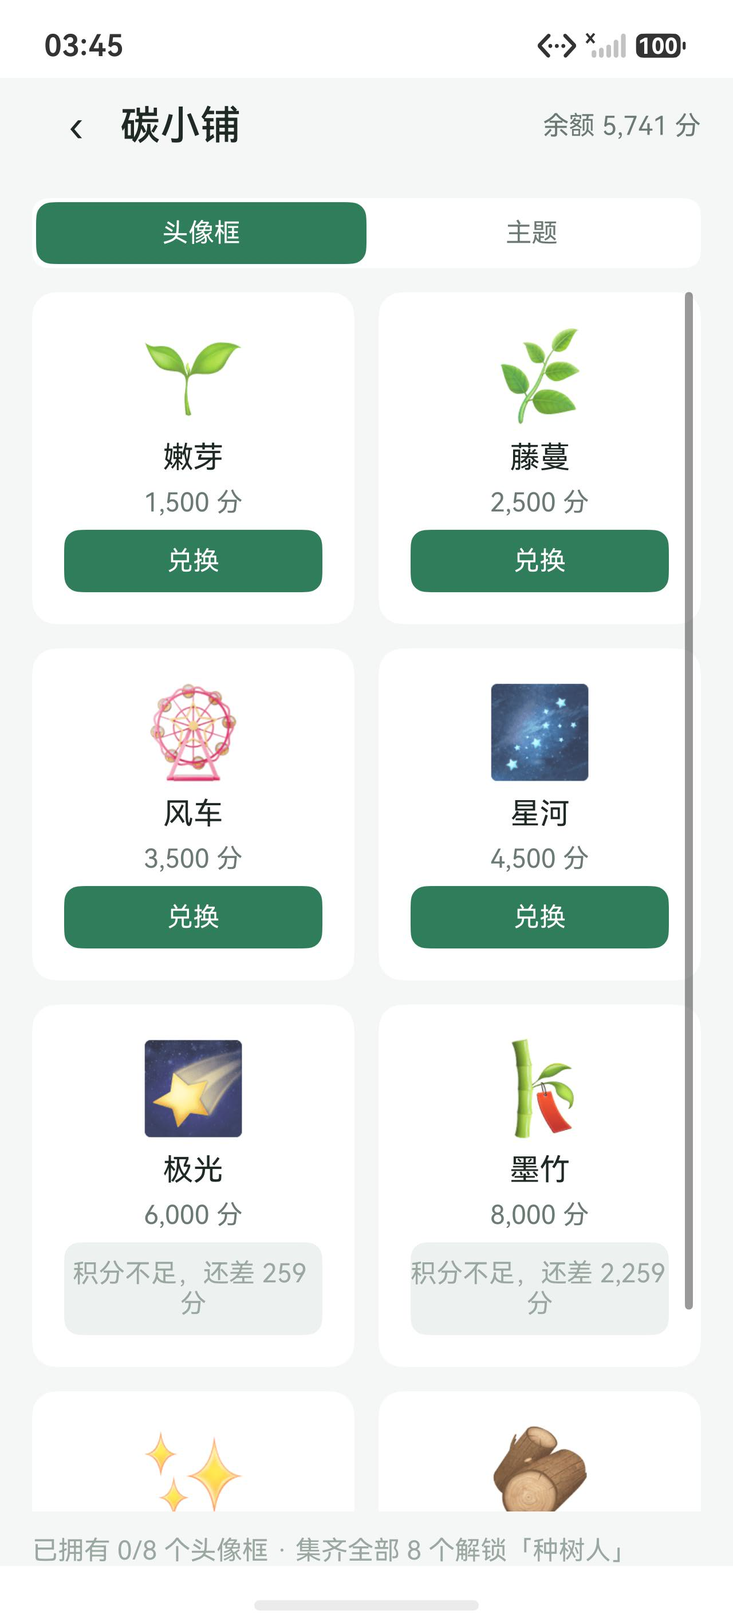
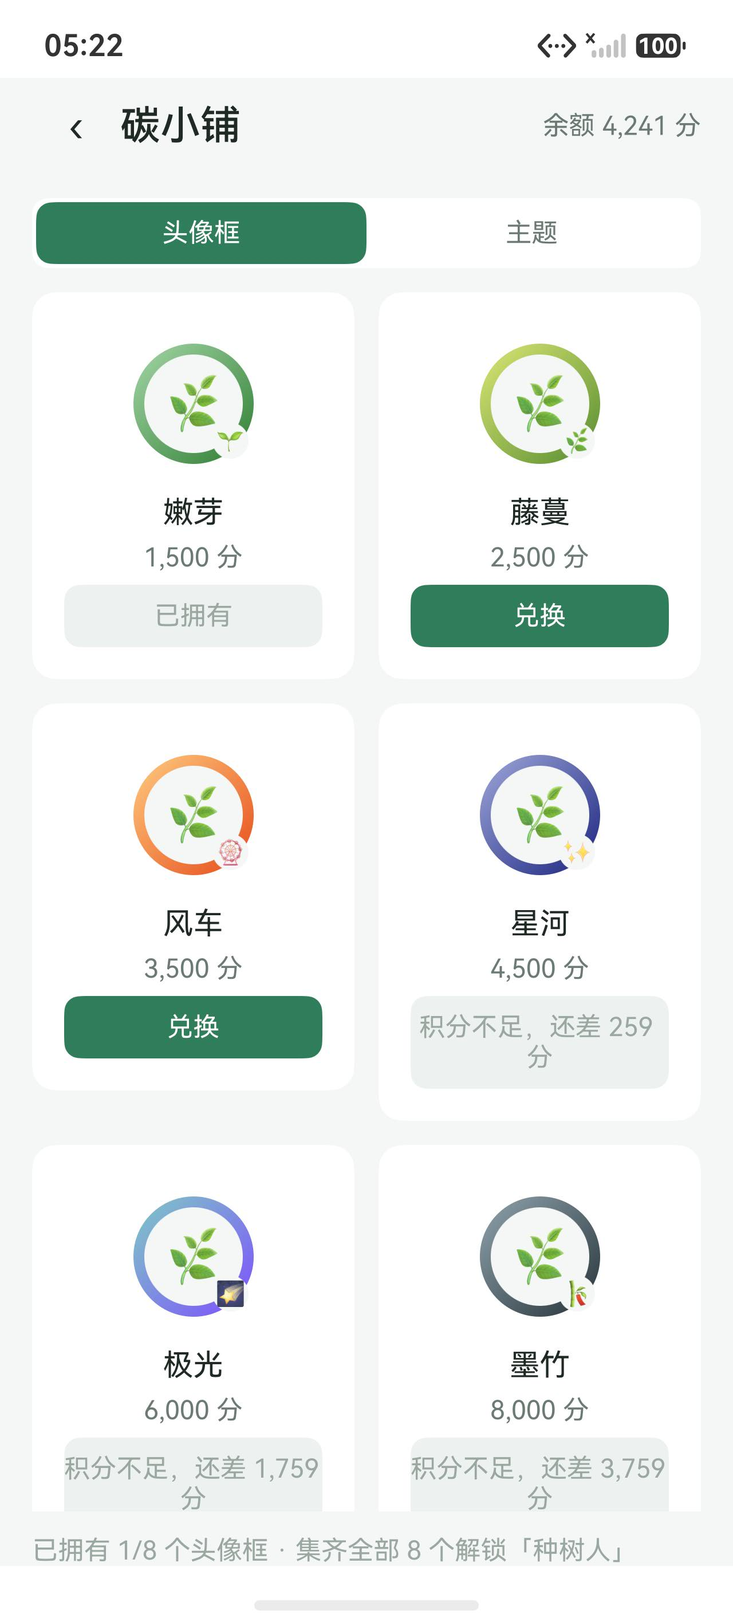
feat(appearance): 头像框改为「环 + 角标」，与头像分层
改了什么：
- 新增 app/entry/src/main/ets/components/AvatarWithFrame.ets：Stack 三层
  （渐变外圆 = 环 / 内圆遮罩挖空 / 环心 emoji = 头像本体）+ 右下角角标；
  未拥有时环透明度 0.30、中心叠 🔒、不画角标。
- 接线 ShopItemCard / AppearancePage / MinePage；AppTheme 增 ICON_XL = 60。
- 删掉 ShopRules.frameIcon（v4.15 引入的「框 = 第二个 emoji」方案，已无调用点）。
- docs/APPENDIX-C-ui-screens.md §15 补头像框视觉形态与 8 组环色角标；CHANGELOG 记 v4.17，
  并把 v4.10–v4.13 四行粘连的表格行拆开。

为什么：
- 用户反馈「这头像框怎么能和头像一样呢」——框被画成与头像并列的第二个圆形 emoji，
  视觉上无法区分「戴的环」与「头像本体」。

跑了什么：
- hvigorw assembleHap -> BUILD SUCCESSFUL
- scripts/sign-hap.ps1 -Debug -> verify-app success
- python tests/tools/check_l0.py --strict -> L0_EXIT=0（96 文件 0 命中、docConflicts 0）
- bash tests/tools/l1_offline/run_tests.sh -> 49 条 PASS=49、CalcBaseline 323 passed
- 模拟器 127.0.0.1:5555 实测：更换外观 = 1 个已解锁环（嫩芽绿色粗环 + 🌱 角标）+ 7 个锁定环，
  「无」不带锁；碳小铺 8 张卡片均为环 + 角标；重拍 08-shop.png、12-appearance.png

未改任何数值：tests/cases/carbon-calc.json 零改动。

diff --git a/docs/CHANGELOG.md b/docs/CHANGELOG.md
@@ -6,10 +6,14 @@
 
 | 版本 | 日期 | 主题 |
 |---|---|---|
+| **v4.17** | 2026-11-01 | **头像框此前被画成「第二个 emoji」，与头像无法区分** —— 用户反馈「这头像框怎么能和头像一样呢」。根因：`viewmodel/domain/ShopRules.ets` 的 `frameIcon()` 把 8 个框映射成 8 个 emoji，「更换外观」与「碳小铺」又把框和头像**并排**渲染成同样大小的圆形图标，视觉上分不清「戴的环」与「头像本体」。改法：新增 `app/entry/src/main/ets/components/AvatarWithFrame.ets`，用 `Stack` 三层画 —— ① 渐变外圆（环）② 与卡片底同色的内圆遮罩（把中心挖空）③ 环心 emoji（头像本体），已解锁且装框时再画 ④ 右下角角标（🌱🌿🎡✨🌠🎋👑🍂）；环宽 `diameter × 0.09`（最小 3），角标 `diameter × 0.30` 压在右下 45°；未拥有时环透明度 0.30、中心叠 🔒、**不画角标**，「无（不戴框）」恒为可选、不算未拥有。接线三处：`components/ShopItemCard.ets`、`pages/AppearancePage.ets`、`pages/MinePage.ets`；`util/AppTheme.ets` 新增 `ICON_XL = 60`。**踩坑**：`@Prop size` 与组件内置属性 `size`（`(value: SizeOptions) => CommonAttribute`）冲突 → 必须改名（本项目用 `diameter`）。**未改任何数值**，`tests/cases/carbon-calc.json` 零改动、`docConflicts` 仍 0 条；重拍 `docs/screenshots/08-shop.png`、`12-appearance.png` | 用户反馈「头像框和头像一样」 |
 | **v4.16** | 2026-11-01 | 碳小铺「兑换」必失败的根因修复 —— `ShopService.purchase` 在**事务内**先 `INSERT OR IGNORE` 再回读 `SELECT … WHERE is_deleted = 0`；relationalStore 的**读连接看不到未提交行**，于是「刚写成功」被误判成「购买记录未写入」，而 `uq_up` 又把 `OR IGNORE` 的重复插入静默吞掉。改为「事务内只写（先删同键旧行 → 普通 INSERT → 扣分流水走 `verify:false` 跳过回读）→ 提交后再读校验」，`PointService.append` 增加 `verify` 参数（默认 `true`，事务内传 `false`）。实测 5,741 → 4,241 分、嫩芽变「已拥有」、底部「已拥有 1/8 个头像框」 | 用户反馈「点兑换显示购买失败」 |
 | **v4.15** | 2026-11-01 | **四个界面缺陷（用户逐条实测反馈）** —— ① **「我的」页徽章数与徽章墙不一致（我的 0/8、徽章墙 5/8）**：`badgeRows()` 只认 `user_badge.unlocked = 1` 的行，而落库发生在结算链路的 `unlockBadges()`，重播演示数据会先 `clear()` 清表 ⇒ 库里 0 行已解锁时两处各说各话。改为**口径归一**：`app/entry/src/main/ets/viewmodel/RewardService.ets` 的 `badgeRows()` 把 `BadgeEngine.evaluate()` 本次达标的也视为已解锁（徽章是纯荣誉、不参与结算，真相由判定给出，`user_badge` 只负责留痕与同步）；`pages/MinePage.ets` 不再读 `stats.badgeUnlocked`，改调 `badgeRows()` 计数。**同时修掉一个 ArkUI 陷阱**：`rowItem(...)` 是带参数的 `@Builder`，参数按值传入，`${this.badgeUnlocked}/8 已解锁` 这个字符串被钉在首帧（hilog 实测 `reload()` 已算出 5，界面仍显示 0）——新增 `rowItemDynamic(..., valueOf: () => string, ...)`，渲染时调闭包现算。② **碳小铺 8 个头像框长得一模一样**：`components/ShopItemCard.ets:27` 与 `pages/AppearancePage.ets:101` 都硬写 `🖼`，而 `resources/base/media/` 里只有 `app_icon.png`（没有任何 `frame_*` 图片资源）。新增 `viewmodel/domain/ShopRules.ets` 的 `frameIcon(frameId)`，按 `frame_01…08` 映射 🌱嫩芽 / 🌿藤蔓 / 🎡风车 / 🌌星河 / 🌠极光 / 🎋墨竹 / ✨鎏金 / 🪵年轮，两处渲染改用它。③ **科普详情页「已读」按钮点了没反应**：`pages/ScienceDetailPage.ets` 的 `markRead()` 有「停留 ≥3 秒」门槛（那是**自动判定**的口径，附录 D4-4），用户刚打开就点按钮时 `dwell < 3000` ⇒ 静默什么都不做。新增 `explicitRead()`：显式点击**不受门槛限制**（点按钮本身就是「我读完了」的意思表示），成功写 `science_progress` 并弹「已标记为已读」；按钮按状态改文案（`标记为已读` → `已读 ✓` 并置灰禁用，新增 `science_read_done` 字符串键）。④ **「0%」看不懂也不会动**：详情页头部原先把 `ScienceService.percentText(progress)` 直接印成 `0%`，而进度只在本页内部使用、不随滚动更新，用户不知道它是什么。改为**状态标签**：未读显示「未读」、已读显示「已读 ✓」（新增 `science_unread_tag`）；`science_mark_read` 的文案由「已读」改为「标记为已读」，避免按钮像是状态而非动作。文档同步：`docs/APPENDIX-C-ui-screens.md` §17 与 `docs/APPENDIX-D-acceptance.md` D4-4 补「显式点击按钮可立即标记，不受 80%/3s 门槛限制；门槛只用于滚到底的自动标记」。重拍 `docs/screenshots/05-mine.png`、`07-badge.png`、`08-shop.png`、`17-science-detail.png`（后者为点完「标记为已读」后的已读态）。**未改任何数值**，`tests/cases/carbon-calc.json` 零改动、`docConflicts` 仍 0 条；三份提交物本轮不重生成（按约定等最终视频到位统一出一次） |
 | **v4.14** | 2026-11-01 | **搜「水」搜不到「自来水」** —— `app/entry/src/main/ets/viewmodel/RecordService.ets` 的 `search()` 只有 `(note LIKE ? OR sub_type LIKE ?)`；而库里 `sub_type` 存的是英文键（`water`），中文名「自来水」只存在于 `rawfile/factors/carbon-factors.json`，因此按中文名搜索永远 0 条（用户实测反馈）。修法：新增私有 `subTypesMatching(keyword)` —— 遍历因子库把**中文名包含关键词**的 `subType` 收集起来，拼成 `OR sub_type IN (?,?,…)` 并进同一个 WHERE；参数按 `[userId, like, like, ...matched, (category), fromMs, toMs]` 顺序拼接，结果行与合计仍共用同一组 WHERE（保持「结果 N 条 / 减排合计」两个数同源）。实测搜「水」→ **15 条 / 0.266 kg**，全部为「自来水」。另：`uitest` 的键盘输入必须用 `uitest uiInput inputText <x> <y> <text>`（`inputText <text>` 需要坐标，只给文字会静默失败），这条已记进 `docs/toolchain/harmony-cli-build.md`。因截图变化重拍 `docs/screenshots/16-record-search.png`（关键词「水」+ 15 条）。**三份提交物本轮暂不重生成**（按约定等最终视频到位后统一出一次，避免每次小修都跑 3 分钟的视频合成）。**未改任何数值**，`tests/cases/carbon-calc.json` 零改动、`docConflicts` 仍 0 条；L0 PASS、L1 49/49、CalcBaseline 323 断言一致 |
-| **v4.13** | 2026-11-01 | **看板「点柱下钻」只写在脚本里、代码里根本没实现** —— 录制脚本与 `docs/APPENDIX-E-demo-script.md:146` 都写「点一根柱子直接下钻到那一天」，但 `app/entry/src/main/ets/components/ChartCanvas.ets` 当时只有 `Canvas.onReady` 绘制、**没有任何触摸处理**，点上去毫无反应（用户实测反馈）。补实现：① `ChartCanvas` 增加 `onPointTap: ((index: number) => void) | undefined` 与 `.onClick`，`handleTap(x)` 按与 `drawLine` / `drawBars` 完全一致的几何把点击 x 换算成数据点下标（折线 `round((x-4)/step)`、柱状 `floor(x/slot)`，越界夹紧）；② `viewmodel/RouteName.ets` 的 `RouteParam` 新增 `fromMs` / `toMs` 与 `static range()`；③ `pages/DashboardPage.ets` 新增 `drillToBucket`（点折线 → 把该桶的 `startMs`/`endMs` 带进记录搜索）与 `drillToCategory`（点分类柱 → 带 `category`），均走 `NavParams.push(RouteName.RECORD_SEARCH)`；④ `pages/RecordSearchPage.ets` 的 `aboutToAppear` 读取区间参数（有区间就只查那一天，否则维持默认最近 30 天）。**顺带修掉一处同源不一致**：搜索结果行原本直接打印 `record.subType`，同一笔记录在记录列表里叫「自来水」、在搜索结果里叫 `water`；新增 `nameOf()`（与记录列表同口径取因子库 `name`，带 `Map` 缓存），并把活动量改用 `Formatter.amount()`（此前 `record.amount` 直出会显示 `8` 而不是 `8 km` 之外的精度问题）。实测：日粒度点折线峰值 → 「11-01 – 11-01 / 结果 2 条 / 1.55 kg」；点「出行」柱 → 「出行 / 10-02 – 11-01 / 结果 25 条 / 8.60 kg」，行首显示「自来水」「自行车」「步行」「拼车（人均）」「公交车」「地铁」。录制脚本第 82 行与旁白同步改为「跳到记录搜索页，日期区间已锁到那一天」。因搜索行文案变化，重拍 `docs/screenshots/16-record-search.png` 与 `docs/screenshots/13-settings.png`（后者顺带把误触关掉的「每日记录提醒」恢复为开）。**未改任何数值**，`tests/cases/carbon-calc.json` 零改动、`docConflicts` 仍 0 条 || **v4.12** | 2026-11-01 | **看板切「日/周/月/年」图不变** —— `app/entry/src/main/ets/components/ChartCanvas.ets` 只在 `Canvas.onReady()` 里画一次；`onReady` 只在**首次布局**触发，之后父组件把新的 `buckets` / `slices` 传进来、`build()` 会重跑但不会再次 `onReady` ⇒ 数据换了、画布还是老图（区间说明会变，图不变，正是用户看到的现象）。修法：`kind` / `buckets` / `slices` / `chartHeight` 四个 `@Prop` 全加 `@Watch('onDataChange')`，新增 `private ready: boolean`，`onReady` 里置 `true` 再画一次，`onDataChange()` 里判 `ready` 后重画（画布未就绪时跳过，避免用 0 宽高绘制）。实测四档：日（今天 00:00–24:00 按小时，2 个尖峰）/ 周（周一–周日 7 点）/ 月（10-03–11-01 30 点）/ 年（12 月–11 月 12 点）四张图与饼图比例均随档位变化。因 `02-dashboard.png` 重拍，三份提交物同步重生成。**未改任何数值**，`tests/cases/carbon-calc.json` 零改动、`docConflicts` 仍 0 条 || **v4.11** | 2026-11-01 | **点「累计减排」白屏（Tab 页面被当二级页压栈）** —— 首页与「我的」页的「累计减排」卡片、首页「今日记录」卡片的点击都是 `push(RouteName.DASHBOARD)` / `push(RouteName.RECORD)`，但看板与记录是 **Tab 页面**，`app/entry/src/main/ets/pages/Index.ets` 的 `pageMap` 只登记了 13 个二级页、**没有这两个名字** ⇒ `NavDestination` 匹配不到任何分支 ⇒ 整屏白屏（模拟器实测：点下去页面变空白，只剩系统状态栏）。Tab 页面只能切、不能压栈。改法：`Index.ets` 新增 `private switchTab(index: number)` 并把 `goTab: (index: number) => void` 注入 `HomePage` 与 `MinePage`；`HomePage.ets:168/194` 的 `push(RouteName.DASHBOARD)` → `this.goTab(1)`、`:180` 的 `push(RouteName.RECORD)` → `this.goTab(2)`、`MinePage.ets` 的 `push(RouteName.DASHBOARD)` → `this.goTab(1)`。两台模拟器实测三个入口均正确切到目标 Tab（底部高亮同步）。**未改任何数值**，`tests/cases/carbon-calc.json` 零改动、`docConflicts` 仍 0 条；截图内容不变（看板/记录页外观未改），故未重拍 || **v4.10** | 2026-11-01 | **识图的隐私声明与实现对齐（只改文案，不改行为）** —— 「关于与合规」页原写「识图所选图片只在内存中读取一次像素用于推断」，但本期引擎是 `MockAiEngine`（`app/entry/src/main/ets/viewmodel/AiAssistService.ets:46`），它**只用 uri 字符串做哈希挑候选、完全不读像素**，全仓也无任何 `CoreVisionKit` / `objectDetection` / `image.ImageSource` 调用。该句属对外声明性质，与实现不符。改为「识图所选图片**不会被本应用读取或分析内容**（当前为模拟识别，不含图像模型），也不落盘、不上传」——后半句（不落盘、不上传）本就成立（`HttpPort` 未注入该层）。同步订正 `scripts/build_submission_docx.py` 的两处同类表述（§6 隐私表、§3.7 用户路径删掉「置信提示」，与「不展示置信度」一致），并把 docx §8.1 的 L1 计数从 48 改为 49。重打 HAP、重签、两台模拟器重装、重抓 `docs/screenshots/18-about.png`、重生成 docx 与 rar。**未改任何数值**，`tests/cases/carbon-calc.json` 零改动、`docConflicts` 仍 0 条 |
+| **v4.13** | 2026-11-01 | **看板「点柱下钻」只写在脚本里、代码里根本没实现** —— 录制脚本与 `docs/APPENDIX-E-demo-script.md:146` 都写「点一根柱子直接下钻到那一天」，但 `app/entry/src/main/ets/components/ChartCanvas.ets` 当时只有 `Canvas.onReady` 绘制、**没有任何触摸处理**，点上去毫无反应（用户实测反馈）。补实现：① `ChartCanvas` 增加 `onPointTap: ((index: number) => void) | undefined` 与 `.onClick`，`handleTap(x)` 按与 `drawLine` / `drawBars` 完全一致的几何把点击 x 换算成数据点下标（折线 `round((x-4)/step)`、柱状 `floor(x/slot)`，越界夹紧）；② `viewmodel/RouteName.ets` 的 `RouteParam` 新增 `fromMs` / `toMs` 与 `static range()`；③ `pages/DashboardPage.ets` 新增 `drillToBucket`（点折线 → 把该桶的 `startMs`/`endMs` 带进记录搜索）与 `drillToCategory`（点分类柱 → 带 `category`），均走 `NavParams.push(RouteName.RECORD_SEARCH)`；④ `pages/RecordSearchPage.ets` 的 `aboutToAppear` 读取区间参数（有区间就只查那一天，否则维持默认最近 30 天）。**顺带修掉一处同源不一致**：搜索结果行原本直接打印 `record.subType`，同一笔记录在记录列表里叫「自来水」、在搜索结果里叫 `water`；新增 `nameOf()`（与记录列表同口径取因子库 `name`，带 `Map` 缓存），并把活动量改用 `Formatter.amount()`（此前 `record.amount` 直出会显示 `8` 而不是 `8 km` 之外的精度问题）。实测：日粒度点折线峰值 → 「11-01 – 11-01 / 结果 2 条 / 1.55 kg」；点「出行」柱 → 「出行 / 10-02 – 11-01 / 结果 25 条 / 8.60 kg」，行首显示「自来水」「自行车」「步行」「拼车（人均）」「公交车」「地铁」。录制脚本第 82 行与旁白同步改为「跳到记录搜索页，日期区间已锁到那一天」。因搜索行文案变化，重拍 `docs/screenshots/16-record-search.png` 与 `docs/screenshots/13-settings.png`（后者顺带把误触关掉的「每日记录提醒」恢复为开）。**未改任何数值**，`tests/cases/carbon-calc.json` 零改动、`docConflicts` 仍 0 条 |
+| **v4.12** | 2026-11-01 | **看板切「日/周/月/年」图不变** —— `app/entry/src/main/ets/components/ChartCanvas.ets` 只在 `Canvas.onReady()` 里画一次；`onReady` 只在**首次布局**触发，之后父组件把新的 `buckets` / `slices` 传进来、`build()` 会重跑但不会再次 `onReady` ⇒ 数据换了、画布还是老图（区间说明会变，图不变，正是用户看到的现象）。修法：`kind` / `buckets` / `slices` / `chartHeight` 四个 `@Prop` 全加 `@Watch('onDataChange')`，新增 `private ready: boolean`，`onReady` 里置 `true` 再画一次，`onDataChange()` 里判 `ready` 后重画（画布未就绪时跳过，避免用 0 宽高绘制）。实测四档：日（今天 00:00–24:00 按小时，2 个尖峰）/ 周（周一–周日 7 点）/ 月（10-03–11-01 30 点）/ 年（12 月–11 月 12 点）四张图与饼图比例均随档位变化。因 `02-dashboard.png` 重拍，三份提交物同步重生成。**未改任何数值**，`tests/cases/carbon-calc.json` 零改动、`docConflicts` 仍 0 条 |
+| **v4.11** | 2026-11-01 | **点「累计减排」白屏（Tab 页面被当二级页压栈）** —— 首页与「我的」页的「累计减排」卡片、首页「今日记录」卡片的点击都是 `push(RouteName.DASHBOARD)` / `push(RouteName.RECORD)`，但看板与记录是 **Tab 页面**，`app/entry/src/main/ets/pages/Index.ets` 的 `pageMap` 只登记了 13 个二级页、**没有这两个名字** ⇒ `NavDestination` 匹配不到任何分支 ⇒ 整屏白屏（模拟器实测：点下去页面变空白，只剩系统状态栏）。Tab 页面只能切、不能压栈。改法：`Index.ets` 新增 `private switchTab(index: number)` 并把 `goTab: (index: number) => void` 注入 `HomePage` 与 `MinePage`；`HomePage.ets:168/194` 的 `push(RouteName.DASHBOARD)` → `this.goTab(1)`、`:180` 的 `push(RouteName.RECORD)` → `this.goTab(2)`、`MinePage.ets` 的 `push(RouteName.DASHBOARD)` → `this.goTab(1)`。两台模拟器实测三个入口均正确切到目标 Tab（底部高亮同步）。**未改任何数值**，`tests/cases/carbon-calc.json` 零改动、`docConflicts` 仍 0 条；截图内容不变（看板/记录页外观未改），故未重拍 |
+| **v4.10** | 2026-11-01 | **识图的隐私声明与实现对齐（只改文案，不改行为）** —— 「关于与合规」页原写「识图所选图片只在内存中读取一次像素用于推断」，但本期引擎是 `MockAiEngine`（`app/entry/src/main/ets/viewmodel/AiAssistService.ets:46`），它**只用 uri 字符串做哈希挑候选、完全不读像素**，全仓也无任何 `CoreVisionKit` / `objectDetection` / `image.ImageSource` 调用。该句属对外声明性质，与实现不符。改为「识图所选图片**不会被本应用读取或分析内容**（当前为模拟识别，不含图像模型），也不落盘、不上传」——后半句（不落盘、不上传）本就成立（`HttpPort` 未注入该层）。同步订正 `scripts/build_submission_docx.py` 的两处同类表述（§6 隐私表、§3.7 用户路径删掉「置信提示」，与「不展示置信度」一致），并把 docx §8.1 的 L1 计数从 48 改为 49。重打 HAP、重签、两台模拟器重装、重抓 `docs/screenshots/18-about.png`、重生成 docx 与 rar。**未改任何数值**，`tests/cases/carbon-calc.json` 零改动、`docConflicts` 仍 0 条 |
 | **v4.9** | 2026-11-01 | **设备侧 hypium 首次在设备上执行：49 条 11 通过、38 条被 `aa test` 环境挡住（如实登记，不改任何数值）** —— 为跑通设备侧测试修掉两个真问题：① **测试执行器路径错误**：`OpenHarmonyTestRunner` 原在 `app/entry/src/ohosTest/ets/testability/`，而 `aa test` 按固定路径 `/ets/testrunner/OpenHarmonyTestRunner` 加载，导致 `TestFinished-ResultCode: -1 / App died` + `Cannot find module '…/entry_test/ets/testrunner/OpenHarmonyTestRunner'`；已迁到 `app/entry/src/ohosTest/ets/testrunner/` 并同步 `app/entry/src/ohosTest/module.json5` 的 `testRunner.srcPath`。② `app/entry/src/ohosTest/ets/test/BadgeIdempotent.test.ets:55` 的 ArkTS 类型错误（`Type 'number \| undefined' is not assignable to type 'number'`，ArkTS 不对「数组下标再取属性」做窄化）改为先取局部变量再判空。**新增探针** `app/entry/src/ohosTest/ets/test/Probe.test.ets`（登记进 `List.test.ets`），在设备上定事实：`getCurrentTopAbility failed=true` + `appContext open ok=false msg=Error: Parameter error.Illegal context.`，即 `aa test` 进程**既拿不到可用的 `Context` 开 `relationalStore`，也读不到 `rawfile`**（`CalcSamples` 报 `GetRawFileContent failed`）。故设备侧 11 条纯逻辑通过、38 条依赖真库/真资源的用例由 **L1 离线执行器**（`node:sqlite` 垫片）覆盖（该执行器本轮 49/49 通过、复算 323 个断言点一致），两者互补不互相顶替；结论与边界追加在 `docs/VERIFICATION.md §R19`。**未改任何数值**，`tests/cases/carbon-calc.json` 零改动、`docConflicts` 仍 0 条 |
 | **v4.8** | 2026-11-01 | **近场协同在双模拟器上实测：修掉「运行时权限从未申请」的真 bug** —— `ohos.permission.DISTRIBUTED_DATASYNC` 是 **user_grant** 权限，只在 `app/entry/src/main/module.json5` 声明不够；未在运行时申请时 `distributedDeviceManager.getAvailableDeviceListSync()` 直接抛 `Permission verification failed ... {"code":"201"}`，而适配器把异常吞掉 → `available()` 恒 `false` → 设备协同页永远显示「未组网」，**任何真机/模拟器都跑不起近场**。修法：① `app/entry/src/main/ets/viewmodel/distributed/DistributedPort.ets` 的接口新增 `ensurePermission(): Promise<boolean>`（`NullDistributedPort` 返回 `false`）；② `distributed/DistributedKitAdapter.ets` 用 `abilityAccessCtrl.requestPermissionsFromUser` 申请并缓存结果（`Permissions` 类型 + 回调重载包 Promise，避开 `void & Promise<T>` 交叉类型），三处 catch 全部补 `hilog` 诊断（`detailOf()` 带 `code`）；③ `viewmodel/DistributedService.ets` 的 `view()` / `exchange()` 在 `available()` 之前先 `await port.ensurePermission()`；④ `app/entry/src/ohosTest/ets/test/NearbyMerge.test.ets` 的假端口补 `ensurePermission()`（等价「用户拒绝」分支）。配套：`scripts/sign-hap.ps1` 新增 `-Debug` 开关，用 `UnsgnedDebugProfileTemplate.json` + `OpenHarmonyProfileDebug.pem` 出 **debug 类型 HAP** 并把 hdc 上**所有**已连接设备的 udid 写进 `debug-info`（只有 debug HAP 的 token 才允许 `atm perm -g/-r` 免界面改权限，也是后续真机跑 hypium 的前提）。**实测结论（如实记录）**：两台模拟器上 `near permission: granted=true results=[0]`、`near available: peer count=0` —— 权限与能力判定已通，但因两台模拟器无华为账号、未建立可信设备关系，`getAvailableDeviceListSync()` 仍返回空，故「发现对端 → KV 同步 → 家庭合并」一段仍未跑通。**未改任何数值**，`tests/cases/carbon-calc.json` 零改动、`docConflicts` 仍 0 条 |
 | **v4.7** | 2026-11-01 | **数字展示口径纠偏（四位小数一律收敛）+ 首页今日记录的折行**：`Formatter.number()` 原先对减排量与活动量一律 `toFixed(4)`，导致记录页出现 `80.0000 L`、`1.5000 km`、`减排 0.2880`、目标进度 `1.0000/1.0000 条`、徽章 `90.0000/7.0000` 这类读数。改为：**减排量展示 2 位、绝对值 < 1 kg 时 3 位**（与 `docs/PLAN.md:432` / `APPENDIX-A §4` 早已写下的口径一致，此前是代码与文档分叉）；新增 `amount`（活动量，至多 2 位并裁掉末尾 0，条/次/天 显示整数）与 `progress`（目标/徽章进度同口径）两种 `NumberKind`；因子值改为**至多 6 位并裁掉末尾 0**（水 0.000168 不能被 4 位抹成 0.0002）。同步把 6 处误用 `'factor'` 的调用点改正（`components/RecordItem.ets`、`components/GoalItem.ets`、`pages/RecordDetailPage.ets`、`pages/HomePage.ets`、`util/CardRenderer.ets`、`components/BadgeItem.ets`）。另：`components/StatCard.ets` 新增 `valueSize`，首页「今日记录」用 16 号字，修掉 `+150 分` 被挤成两行。文档侧更新 `docs/APPENDIX-C-ui-screens.md §3.4` 数字格式表与 §9 的「固定 4 位」表述。**未改任何数值**（存储仍 4 位、积分仍按 4 位后的值计算），`tests/cases/carbon-calc.json` 零改动、`docConflicts` 仍 0 条；17 张截图与三件套按新口径重生成 |
@@ -202,7 +206,10 @@
 
 | 规格 | 唯一来源 | 其余位置 |
 |---|---|---|
-| **v4.14** | 2026-11-01 | **搜「水」搜不到「自来水」** —— `app/entry/src/main/ets/viewmodel/RecordService.ets` 的 `search()` 只有 `(note LIKE ? OR sub_type LIKE ?)`；而库里 `sub_type` 存的是英文键（`water`），中文名「自来水」只存在于 `rawfile/factors/carbon-factors.json`，因此按中文名搜索永远 0 条（用户实测反馈）。修法：新增私有 `subTypesMatching(keyword)` —— 遍历因子库把**中文名包含关键词**的 `subType` 收集起来，拼成 `OR sub_type IN (?,?,…)` 并进同一个 WHERE；参数按 `[userId, like, like, ...matched, (category), fromMs, toMs]` 顺序拼接，结果行与合计仍共用同一组 WHERE（保持「结果 N 条 / 减排合计」两个数同源）。实测搜「水」→ **15 条 / 0.266 kg**，全部为「自来水」。另：`uitest` 的键盘输入必须用 `uitest uiInput inputText <x> <y> <text>`（`inputText <text>` 需要坐标，只给文字会静默失败），这条已记进 `docs/toolchain/harmony-cli-build.md`。因截图变化重拍 `docs/screenshots/16-record-search.png`（关键词「水」+ 15 条）。**三份提交物本轮暂不重生成**（按约定等最终视频到位后统一出一次，避免每次小修都跑 3 分钟的视频合成）。**未改任何数值**，`tests/cases/carbon-calc.json` 零改动、`docConflicts` 仍 0 条；L0 PASS、L1 49/49、CalcBaseline 323 断言一致 || **v4.13** | 2026-11-01 | **看板「点柱下钻」只写在脚本里、代码里根本没实现** —— 录制脚本与 `docs/APPENDIX-E-demo-script.md:146` 都写「点一根柱子直接下钻到那一天」，但 `app/entry/src/main/ets/components/ChartCanvas.ets` 当时只有 `Canvas.onReady` 绘制、**没有任何触摸处理**，点上去毫无反应（用户实测反馈）。补实现：① `ChartCanvas` 增加 `onPointTap: ((index: number) => void) | undefined` 与 `.onClick`，`handleTap(x)` 按与 `drawLine` / `drawBars` 完全一致的几何把点击 x 换算成数据点下标（折线 `round((x-4)/step)`、柱状 `floor(x/slot)`，越界夹紧）；② `viewmodel/RouteName.ets` 的 `RouteParam` 新增 `fromMs` / `toMs` 与 `static range()`；③ `pages/DashboardPage.ets` 新增 `drillToBucket`（点折线 → 把该桶的 `startMs`/`endMs` 带进记录搜索）与 `drillToCategory`（点分类柱 → 带 `category`），均走 `NavParams.push(RouteName.RECORD_SEARCH)`；④ `pages/RecordSearchPage.ets` 的 `aboutToAppear` 读取区间参数（有区间就只查那一天，否则维持默认最近 30 天）。**顺带修掉一处同源不一致**：搜索结果行原本直接打印 `record.subType`，同一笔记录在记录列表里叫「自来水」、在搜索结果里叫 `water`；新增 `nameOf()`（与记录列表同口径取因子库 `name`，带 `Map` 缓存），并把活动量改用 `Formatter.amount()`（此前 `record.amount` 直出会显示 `8` 而不是 `8 km` 之外的精度问题）。实测：日粒度点折线峰值 → 「11-01 – 11-01 / 结果 2 条 / 1.55 kg」；点「出行」柱 → 「出行 / 10-02 – 11-01 / 结果 25 条 / 8.60 kg」，行首显示「自来水」「自行车」「步行」「拼车（人均）」「公交车」「地铁」。录制脚本第 82 行与旁白同步改为「跳到记录搜索页，日期区间已锁到那一天」。因搜索行文案变化，重拍 `docs/screenshots/16-record-search.png` 与 `docs/screenshots/13-settings.png`（后者顺带把误触关掉的「每日记录提醒」恢复为开）。**未改任何数值**，`tests/cases/carbon-calc.json` 零改动、`docConflicts` 仍 0 条 || **v4.12** | 2026-11-01 | **看板切「日/周/月/年」图不变** —— `app/entry/src/main/ets/components/ChartCanvas.ets` 只在 `Canvas.onReady()` 里画一次；`onReady` 只在**首次布局**触发，之后父组件把新的 `buckets` / `slices` 传进来、`build()` 会重跑但不会再次 `onReady` ⇒ 数据换了、画布还是老图（区间说明会变，图不变，正是用户看到的现象）。修法：`kind` / `buckets` / `slices` / `chartHeight` 四个 `@Prop` 全加 `@Watch('onDataChange')`，新增 `private ready: boolean`，`onReady` 里置 `true` 再画一次，`onDataChange()` 里判 `ready` 后重画（画布未就绪时跳过，避免用 0 宽高绘制）。实测四档：日（今天 00:00–24:00 按小时，2 个尖峰）/ 周（周一–周日 7 点）/ 月（10-03–11-01 30 点）/ 年（12 月–11 月 12 点）四张图与饼图比例均随档位变化。因 `02-dashboard.png` 重拍，三份提交物同步重生成。**未改任何数值**，`tests/cases/carbon-calc.json` 零改动、`docConflicts` 仍 0 条 || **v4.11** | 2026-11-01 | **点「累计减排」白屏（Tab 页面被当二级页压栈）** —— 首页与「我的」页的「累计减排」卡片、首页「今日记录」卡片的点击都是 `push(RouteName.DASHBOARD)` / `push(RouteName.RECORD)`，但看板与记录是 **Tab 页面**，`app/entry/src/main/ets/pages/Index.ets` 的 `pageMap` 只登记了 13 个二级页、**没有这两个名字** ⇒ `NavDestination` 匹配不到任何分支 ⇒ 整屏白屏（模拟器实测：点下去页面变空白，只剩系统状态栏）。Tab 页面只能切、不能压栈。改法：`Index.ets` 新增 `private switchTab(index: number)` 并把 `goTab: (index: number) => void` 注入 `HomePage` 与 `MinePage`；`HomePage.ets:168/194` 的 `push(RouteName.DASHBOARD)` → `this.goTab(1)`、`:180` 的 `push(RouteName.RECORD)` → `this.goTab(2)`、`MinePage.ets` 的 `push(RouteName.DASHBOARD)` → `this.goTab(1)`。两台模拟器实测三个入口均正确切到目标 Tab（底部高亮同步）。**未改任何数值**，`tests/cases/carbon-calc.json` 零改动、`docConflicts` 仍 0 条；截图内容不变（看板/记录页外观未改），故未重拍 || 积分封顶取数 SQL | `PLAN.md §9.2` | 附录 A §3.3 只留口径要点 |
+| **v4.14** | 2026-11-01 | **搜「水」搜不到「自来水」** —— `app/entry/src/main/ets/viewmodel/RecordService.ets` 的 `search()` 只有 `(note LIKE ? OR sub_type LIKE ?)`；而库里 `sub_type` 存的是英文键（`water`），中文名「自来水」只存在于 `rawfile/factors/carbon-factors.json`，因此按中文名搜索永远 0 条（用户实测反馈）。修法：新增私有 `subTypesMatching(keyword)` —— 遍历因子库把**中文名包含关键词**的 `subType` 收集起来，拼成 `OR sub_type IN (?,?,…)` 并进同一个 WHERE；参数按 `[userId, like, like, ...matched, (category), fromMs, toMs]` 顺序拼接，结果行与合计仍共用同一组 WHERE（保持「结果 N 条 / 减排合计」两个数同源）。实测搜「水」→ **15 条 / 0.266 kg**，全部为「自来水」。另：`uitest` 的键盘输入必须用 `uitest uiInput inputText <x> <y> <text>`（`inputText <text>` 需要坐标，只给文字会静默失败），这条已记进 `docs/toolchain/harmony-cli-build.md`。因截图变化重拍 `docs/screenshots/16-record-search.png`（关键词「水」+ 15 条）。**三份提交物本轮暂不重生成**（按约定等最终视频到位后统一出一次，避免每次小修都跑 3 分钟的视频合成）。**未改任何数值**，`tests/cases/carbon-calc.json` 零改动、`docConflicts` 仍 0 条；L0 PASS、L1 49/49、CalcBaseline 323 断言一致 |
+| **v4.13** | 2026-11-01 | **看板「点柱下钻」只写在脚本里、代码里根本没实现** —— 录制脚本与 `docs/APPENDIX-E-demo-script.md:146` 都写「点一根柱子直接下钻到那一天」，但 `app/entry/src/main/ets/components/ChartCanvas.ets` 当时只有 `Canvas.onReady` 绘制、**没有任何触摸处理**，点上去毫无反应（用户实测反馈）。补实现：① `ChartCanvas` 增加 `onPointTap: ((index: number) => void) | undefined` 与 `.onClick`，`handleTap(x)` 按与 `drawLine` / `drawBars` 完全一致的几何把点击 x 换算成数据点下标（折线 `round((x-4)/step)`、柱状 `floor(x/slot)`，越界夹紧）；② `viewmodel/RouteName.ets` 的 `RouteParam` 新增 `fromMs` / `toMs` 与 `static range()`；③ `pages/DashboardPage.ets` 新增 `drillToBucket`（点折线 → 把该桶的 `startMs`/`endMs` 带进记录搜索）与 `drillToCategory`（点分类柱 → 带 `category`），均走 `NavParams.push(RouteName.RECORD_SEARCH)`；④ `pages/RecordSearchPage.ets` 的 `aboutToAppear` 读取区间参数（有区间就只查那一天，否则维持默认最近 30 天）。**顺带修掉一处同源不一致**：搜索结果行原本直接打印 `record.subType`，同一笔记录在记录列表里叫「自来水」、在搜索结果里叫 `water`；新增 `nameOf()`（与记录列表同口径取因子库 `name`，带 `Map` 缓存），并把活动量改用 `Formatter.amount()`（此前 `record.amount` 直出会显示 `8` 而不是 `8 km` 之外的精度问题）。实测：日粒度点折线峰值 → 「11-01 – 11-01 / 结果 2 条 / 1.55 kg」；点「出行」柱 → 「出行 / 10-02 – 11-01 / 结果 25 条 / 8.60 kg」，行首显示「自来水」「自行车」「步行」「拼车（人均）」「公交车」「地铁」。录制脚本第 82 行与旁白同步改为「跳到记录搜索页，日期区间已锁到那一天」。因搜索行文案变化，重拍 `docs/screenshots/16-record-search.png` 与 `docs/screenshots/13-settings.png`（后者顺带把误触关掉的「每日记录提醒」恢复为开）。**未改任何数值**，`tests/cases/carbon-calc.json` 零改动、`docConflicts` 仍 0 条 |
+| **v4.12** | 2026-11-01 | **看板切「日/周/月/年」图不变** —— `app/entry/src/main/ets/components/ChartCanvas.ets` 只在 `Canvas.onReady()` 里画一次；`onReady` 只在**首次布局**触发，之后父组件把新的 `buckets` / `slices` 传进来、`build()` 会重跑但不会再次 `onReady` ⇒ 数据换了、画布还是老图（区间说明会变，图不变，正是用户看到的现象）。修法：`kind` / `buckets` / `slices` / `chartHeight` 四个 `@Prop` 全加 `@Watch('onDataChange')`，新增 `private ready: boolean`，`onReady` 里置 `true` 再画一次，`onDataChange()` 里判 `ready` 后重画（画布未就绪时跳过，避免用 0 宽高绘制）。实测四档：日（今天 00:00–24:00 按小时，2 个尖峰）/ 周（周一–周日 7 点）/ 月（10-03–11-01 30 点）/ 年（12 月–11 月 12 点）四张图与饼图比例均随档位变化。因 `02-dashboard.png` 重拍，三份提交物同步重生成。**未改任何数值**，`tests/cases/carbon-calc.json` 零改动、`docConflicts` 仍 0 条 |
+| **v4.11** | 2026-11-01 | **点「累计减排」白屏（Tab 页面被当二级页压栈）** —— 首页与「我的」页的「累计减排」卡片、首页「今日记录」卡片的点击都是 `push(RouteName.DASHBOARD)` / `push(RouteName.RECORD)`，但看板与记录是 **Tab 页面**，`app/entry/src/main/ets/pages/Index.ets` 的 `pageMap` 只登记了 13 个二级页、**没有这两个名字** ⇒ `NavDestination` 匹配不到任何分支 ⇒ 整屏白屏（模拟器实测：点下去页面变空白，只剩系统状态栏）。Tab 页面只能切、不能压栈。改法：`Index.ets` 新增 `private switchTab(index: number)` 并把 `goTab: (index: number) => void` 注入 `HomePage` 与 `MinePage`；`HomePage.ets:168/194` 的 `push(RouteName.DASHBOARD)` → `this.goTab(1)`、`:180` 的 `push(RouteName.RECORD)` → `this.goTab(2)`、`MinePage.ets` 的 `push(RouteName.DASHBOARD)` → `this.goTab(1)`。两台模拟器实测三个入口均正确切到目标 Tab（底部高亮同步）。**未改任何数值**，`tests/cases/carbon-calc.json` 零改动、`docConflicts` 仍 0 条；截图内容不变（看板/记录页外观未改），故未重拍 || 积分封顶取数 SQL | `PLAN.md §9.2` | 附录 A §3.3 只留口径要点 |
 | 19 张客户端表建表 SQL | `APPENDIX-B §2` | `PLAN.md §5.2` 只留表清单 |
 | 11 个目标的数值 | `PLAN.md §10.1` | 附录 B §8.1、附录 A §3.5 只引用 |
 | 同步协议与 LWW 算法 | `APPENDIX-B §5.3 / §6` | `PLAN.md §12` 只留约束 |

diff --git a/docs/APPENDIX-C-ui-screens.md b/docs/APPENDIX-C-ui-screens.md
@@ -502,7 +502,7 @@ MINE ─┬─ APPEARANCE / POINT_LOG / GOAL / BADGE / SHOP
 [头像框] [主题]                    ← SegmentButton
 ────────────────────────────────────────────
 ┌────────────┐ ┌────────────┐
-│ [frame_01] │ │ [frame_02] │
+│ (◯🌿 环+角标)│ │ (◯🌿 环+角标)│
 │ 嫩芽        │ │ 藤蔓        │
 │ 1,500 分    │ │ 2,500 分    │
 │  [兑换]     │ │ [已拥有]    │
@@ -521,6 +521,10 @@ MINE ─┬─ APPEARANCE / POINT_LOG / GOAL / BADGE / SHOP
 - 主题分区只放 **1 套免费默认主题**；其余主题位由用户方后续提供视觉稿，接入规范见 PLAN §11.5。
 - 已拥有显示 `已拥有` 且按钮置灰；余额不足时按钮置灰并提示「积分不足，还差 1,180 分」。
 - 点击兑换 → `RedeemConfirmDialog`（显示商品名、价格、扣后余额）→ 确认后单事务：写 `user_purchase` + 写 `point_record(purchase, 负数)` + 更新 `point_daily_stat.spent_points`。
+- **头像框的视觉形态（`components/AvatarWithFrame.ets`，v4.17 起）**：框 = 套在头像外面的**彩色渐变圆环**（外圆渐变 + 内圆遮罩挖空）+ **右下角小角标**；头像本体是环心里的 emoji。两者**不同层**，框不再画成与头像并列的第二个 emoji。
+  - 8 个框的环色与角标：嫩芽 `#A5D6A7→#2E7D32` 🌱 / 藤蔓 `#DCE775→#558B2F` 🌿 / 风车 `#FFCC80→#E64A19` 🎡 / 星河 `#9FA8DA→#1A237E` ✨ / 极光 `#80CBC4→#7C4DFF` 🌠 / 墨竹 `#90A4AE→#263238` 🎋 / 鎏金 `#FFE082→#F57F17` 👑 / 年轮 `#D7CCC8→#6D4C41` 🍂。
+  - 未拥有：环降透明度至 0.30、中心叠 🔒、**不画角标**；「无（不戴框）」这一项永远可选，不算未拥有。
+  - 环宽 = `diameter × 0.09`（最小 3），角标 = `diameter × 0.30` 且压在环的右下 45°。
 - 集齐 8 个头像框 → 立即解锁 `B_TREE`「种树人」。
 - **不允许透支、不可重复购买、不退款**。
 
